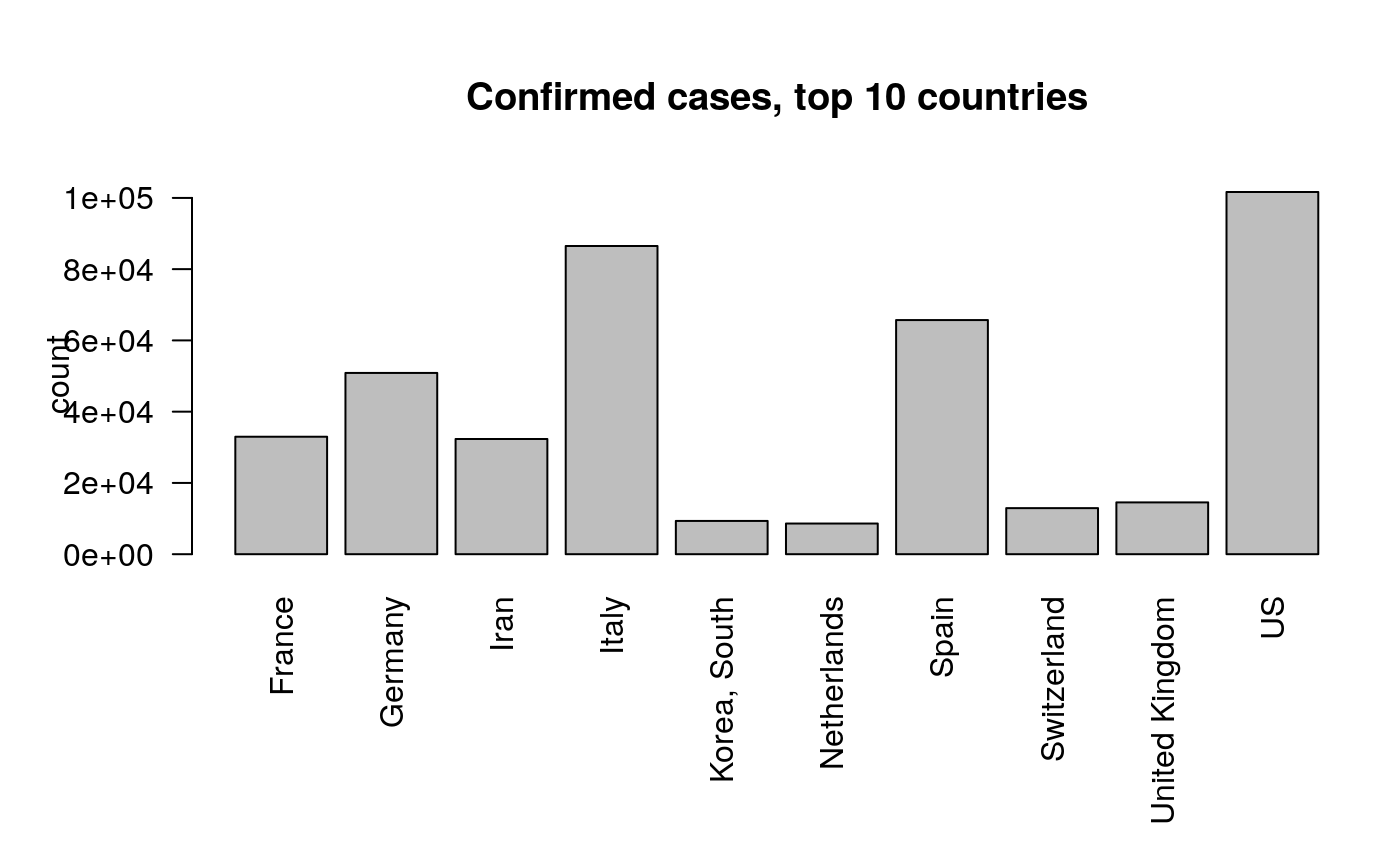
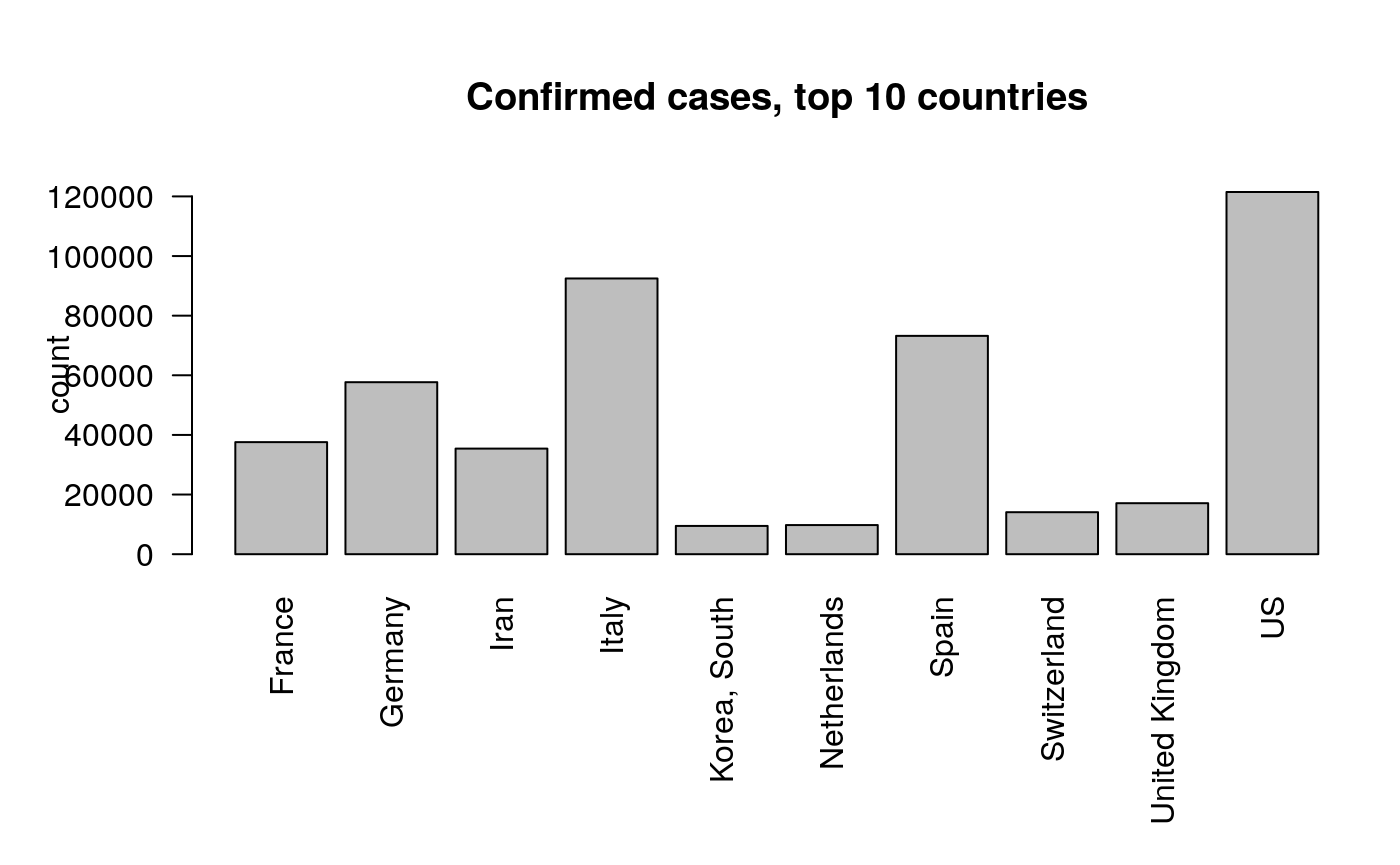
Deploying to gh-pages from  - 2a6ee91621d3e87bbb3a4b51f5cc62c51721f550 🚀

diff --git a/articles/sars2pack.html b/articles/sars2pack.html
@@ -31,7 +31,7 @@
       </button>
       <span class="navbar-brand">
         <a class="navbar-link" href="../index.html">sars2pack</a>
-        <span class="version label label-default" data-toggle="tooltip" data-placement="bottom" title="Released version">0.0.12</span>
+        <span class="version label label-default" data-toggle="tooltip" data-placement="bottom" title="Released version">0.0.13</span>
       </span>
     </div>
 
@@ -80,7 +80,7 @@
       <h1 data-toc-skip>Exploring the COVID-19 pandemic using sars2pack</h1>
                         <h4 class="author">Sean Davis <a href="mailto:seandavi@gmail.com" class="email">seandavi@gmail.com</a> and Vincent J. Carey, stvjc at channing.harvard.edu</h4>
             
-            <h4 class="date">March 28, 2020</h4>
+            <h4 class="date">March 29, 2020</h4>
       
       <small class="dont-index">Source: <a href="https://github.com/seandavi/sars2pack/blob/master/vignettes/sars2pack.Rmd"><code>vignettes/sars2pack.Rmd</code></a></small>
       <div class="hidden name"><code>sars2pack.Rmd</code></div>
@@ -157,7 +157,7 @@
 <span class="fu"><a href="https://rdrr.io/r/base/class.html">class</a></span>(<span class="no">jhu</span>)</pre></body></html></div>
 <pre><code>## [1] "s2p_long_df" "tbl_df"      "tbl"         "data.frame"</code></pre>
 <div class="sourceCode" id="cb4"><html><body><pre class="r"><span class="fu"><a href="https://rdrr.io/r/base/dim.html">dim</a></span>(<span class="no">jhu</span>)</pre></body></html></div>
-<pre><code>## [1] 32868     7</code></pre>
+<pre><code>## [1] 33902     7</code></pre>
 <p>Column names include:</p>
 <div class="sourceCode" id="cb6"><html><body><pre class="r"><span class="fu"><a href="https://rdrr.io/r/base/colnames.html">colnames</a></span>(<span class="no">jhu</span>)</pre></body></html></div>
 <pre><code>## [1] "ProvinceState" "CountryRegion" "Lat"           "Long"         
@@ -279,12 +279,12 @@
 <li><strong>How many records are in the dataset?</strong></li>
 </ul>
 <div class="sourceCode" id="cb45"><html><body><pre class="r"><span class="fu"><a href="https://rdrr.io/r/base/nrow.html">nrow</a></span>(<span class="no">jhu</span>)</pre></body></html></div>
-<pre><code>## [1] 32868</code></pre>
+<pre><code>## [1] 33902</code></pre>
 <ul>
 <li><strong>How many different countries are represented?</strong></li>
 </ul>
 <div class="sourceCode" id="cb47"><html><body><pre class="r"><span class="fu"><a href="https://rdrr.io/r/base/length.html">length</a></span>(<span class="fu"><a href="https://rdrr.io/r/base/unique.html">unique</a></span>(<span class="no">jhu</span>$<span class="no">CountryRegion</span>))</pre></body></html></div>
-<pre><code>## [1] 176</code></pre>
+<pre><code>## [1] 177</code></pre>
 <p>Most records have no listing for <code>ProvinceState</code> column. Let’s look at a few of those to get an idea of what is there when not empty:</p>
 <ul>
 <li><strong>What is in the <code>ProvinceState</code> column?</strong></li>
@@ -320,8 +320,8 @@
     <span class="kw pkg">dplyr</span><span class="kw ns">::</span><span class="fu"><a href="https://dplyr.tidyverse.org/reference/slice.html">slice</a></span>(<span class="fu"><a href="https://rdrr.io/r/base/which.min.html">which.max</a></span>(<span class="no">date</span>)) <span class="kw">%&gt;%</span>
     <span class="kw pkg">dplyr</span><span class="kw ns">::</span><span class="fu"><a href="https://dplyr.tidyverse.org/reference/arrange.html">arrange</a></span>(<span class="fu">desc</span>(<span class="no">count</span>))
 <span class="kw pkg">DT</span><span class="kw ns">::</span><span class="fu"><a href="https://rdrr.io/pkg/DT/man/datatable.html">datatable</a></span>(<span class="no">latest_jhu_data</span>, <span class="kw">rownames</span><span class="kw">=</span><span class="fl">FALSE</span>)</pre></body></html></div>
-<div id="htmlwidget-4399031d9ae0f8dbde4d" style="width:100%;height:auto;" class="datatables html-widget"></div>
-<script type="application/json" data-for="htmlwidget-4399031d9ae0f8dbde4d">{"x":{"filter":"none","data":[[null,null,null,null,null,null,null,null,null,null,null,null,null,null,null,null,null,null,null,null,null,null,null,null,null,null,null,null,null,null,null,null,null,null,null,null,null,null,null,null,null,null,null,null,null,null,null,null,null,null,null,null,null,null,null,null,null,null,null,null,null,null,null,null,null,null,null,null,null,null,null,null,null,null,null,null,null,null,null,null,null,null,null,null,null,null,null,null,null,null,null,null,null,null,null,null,null,null,null,null,null,null,null,null,null,null,null,null,null,null,null,null,null,null,null,null,null,null,null,null,null,null,null,null,null,null,null,null,null,null,null,null,null,null,null,null,null,null,null,null,null,null,null,null,null,null,null,null,null,null,null,null,null,null,null,null,null,null,null,null,null,null,null,null,null,null,null,null,null,null,null,null,null],["US","Italy","Spain","Germany","France","Iran","United Kingdom","Switzerland","Korea, South","Netherlands","Austria","Belgium","Turkey","Portugal","Norway","Brazil","Sweden","Israel","Czechia","Malaysia","Ireland","Denmark","Chile","Luxembourg","Ecuador","Japan","Poland","Pakistan","Romania","South Africa","Thailand","Saudi Arabia","Indonesia","Finland","Russia","Greece","Iceland","India","Philippines","Singapore","Diamond Princess","Panama","Peru","Slovenia","Argentina","Croatia","Mexico","Dominican Republic","Estonia","Qatar","Colombia","Egypt","Bahrain","Iraq","Serbia","Algeria","United Arab Emirates","Lebanon","New Zealand","Lithuania","Morocco","Armenia","Ukraine","Hungary","Bulgaria","Latvia","Slovakia","Andorra","Taiwan*","Costa Rica","Uruguay","Bosnia and Herzegovina","Jordan","Tunisia","Kuwait","San Marino","North Macedonia","Moldova","Albania","Burkina Faso","Azerbaijan","Vietnam","Cyprus","Kazakhstan","Malta","Ghana","Oman","Senegal","Brunei","Afghanistan","Venezuela","Sri Lanka","Cote d'Ivoire","Cambodia","Belarus","Mauritius","Cameroon","West Bank and Gaza","Uzbekistan","Kosovo","Georgia","Montenegro","Cuba","Nigeria","Honduras","Trinidad and Tobago","Bolivia","Kyrgyzstan","Liechtenstein","Rwanda","Paraguay","Congo (Kinshasa)","Bangladesh","Monaco","Kenya","Guatemala","Jamaica","Madagascar","Togo","Barbados","Uganda","Zambia","Ethiopia","Maldives","El Salvador","Tanzania","Djibouti","Equatorial Guinea","Dominica","Mali","Mongolia","Bahamas","Niger","Eswatini","Burma","Guinea","Haiti","Namibia","Suriname","Antigua and Barbuda","Gabon","Grenada","Mozambique","Seychelles","Benin","Eritrea","Laos","Cabo Verde","Fiji","Guyana","Syria","Zimbabwe","Angola","Congo (Brazzaville)","Holy See","Nepal","Bhutan","Central African Republic","Chad","Gambia","Liberia","Mauritania","Saint Lucia","Somalia","Sudan","Belize","Guinea-Bissau","Nicaragua","Saint Kitts and Nevis","Libya","Papua New Guinea","Saint Vincent and the Grenadines","Timor-Leste"],[37.0902,43,40,51,46.2276,32,55.3781,46.8182,36,52.1326,47.5162,50.8333,38.9637,39.3999,60.472,-14.235,63,31,49.8175,2.5,53.1424,56.2639,-35.6751,49.8153,-1.8312,36,51.9194,30.3753,45.9432,-30.5595,15,24,-0.7893,64,60,39.0742,64.9631,21,13,1.2833,0,8.538,-9.19,46.1512,-38.4161,45.1,23.6345,18.7357,58.5953,25.3548,4.5709,26,26.0275,33,44.0165,28.0339,24,33.8547,-40.9006,55.1694,31.7917,40.0691,48.3794,47.1625,42.7339,56.8796,48.669,42.5063,23.7,9.7489,-32.5228,43.9159,31.24,34,29.5,43.9424,41.6086,47.4116,41.1533,12.2383,40.1431,16,35.1264,48.0196,35.9375,7.9465,21,14.4974,4.5353,33,6.4238,7,7.54,11.55,53.7098,-20.2,3.848,31.9522,41.3775,42.602636,42.3154,42.5,22,9.082,15.2,10.6918,-16.2902,41.2044,47.14,-1.9403,-23.4425,-4.0383,23.685,43.7333,-0.0236,15.7835,18.1096,-18.7669,8.6195,13.1939,1,-15.4167,9.145,3.2028,13.7942,-6.369,11.8251,1.5,15.415,17.570692,46.8625,25.0343,17.6078,-26.5225,21.9162,9.9456,18.9712,-22.9576,3.9193,17.0608,-0.8037,12.1165,-18.665695,-4.6796,9.3077,15.1794,19.85627,16.5388,-17.7134,5,34.802075,-20,-11.2027,-4.0383,41.9029,28.1667,27.5142,6.6111,15.4542,13.4432,6.4281,21.0079,13.9094,5.1521,12.8628,13.1939,11.8037,12.8654,17.357822,26.3351,-6.315,12.9843,-8.874217],[-95.7129,12,-4,9,2.2137,53,-3.436,8.2275,128,5.2913,14.5501,4,35.2433,-8.2245,8.4689,-51.9253,16,35,15.473,112.5,-7.6921,9.5018,-71.543,6.1296,-78.1834,138,19.1451,69.3451,24.9668,22.9375,101,45,113.9213,26,90,21.8243,-19.0208,78,122,103.8333,0,-80.7821,-75.0152,14.9955,-63.6167,15.2,-102.5528,-70.1627,25.0136,51.1839,-74.2973,30,50.55,44,21.0059,1.6596,54,35.8623,174.886,23.8813,-7.0926,45.0382,31.1656,19.5033,25.4858,24.6032,19.699,1.5218,121,-83.7534,-55.7658,17.6791,36.51,9,47.75,12.4578,21.7453,28.3699,20.1683,-1.5616,47.5769,108,33.4299,66.9237,14.3754,-1.0232,57,-14.4524,114.7277,65,-66.5897,81,-5.5471,104.9167,27.9534,57.5,11.5021,35.2332,64.5853,20.902977,43.3569,19.3,-80,8.6753,-86.2419,-61.2225,-63.5887,74.7661,9.55,29.8739,-58.4438,21.7587,90.3563,7.4167,37.9062,-90.2308,-77.2975,46.8691,0.8248,-59.5432,32,28.2833,40.4897,73.2207,-88.8965,34.8888,42.5903,10,-61.371,-3.996166,103.8467,-77.3963,8.0817,31.4659,95.956,-9.6966,-72.2852,18.4904,-56.0278,-61.7964,11.6094,-61.679,35.529562,55.492,2.3158,39.7823,102.495496,-23.0418,178.065,-58.75,38.996815,30,17.8739,21.7587,12.4534,84.25,90.4336,20.9394,18.7322,-15.3101,-9.4295,10.9408,-60.9789,46.1996,30.2176,-59.5432,-15.1804,-85.2072,-62.782998,17.228331,143.9555,-61.2872,125.727539],["2020-03-27","2020-03-27","2020-03-27","2020-03-27","2020-03-27","2020-03-27","2020-03-27","2020-03-27","2020-03-27","2020-03-27","2020-03-27","2020-03-27","2020-03-27","2020-03-27","2020-03-27","2020-03-27","2020-03-27","2020-03-27","2020-03-27","2020-03-27","2020-03-27","2020-03-27","2020-03-27","2020-03-27","2020-03-27","2020-03-27","2020-03-27","2020-03-27","2020-03-27","2020-03-27","2020-03-27","2020-03-27","2020-03-27","2020-03-27","2020-03-27","2020-03-27","2020-03-27","2020-03-27","2020-03-27","2020-03-27","2020-03-27","2020-03-27","2020-03-27","2020-03-27","2020-03-27","2020-03-27","2020-03-27","2020-03-27","2020-03-27","2020-03-27","2020-03-27","2020-03-27","2020-03-27","2020-03-27","2020-03-27","2020-03-27","2020-03-27","2020-03-27","2020-03-27","2020-03-27","2020-03-27","2020-03-27","2020-03-27","2020-03-27","2020-03-27","2020-03-27","2020-03-27","2020-03-27","2020-03-27","2020-03-27","2020-03-27","2020-03-27","2020-03-27","2020-03-27","2020-03-27","2020-03-27","2020-03-27","2020-03-27","2020-03-27","2020-03-27","2020-03-27","2020-03-27","2020-03-27","2020-03-27","2020-03-27","2020-03-27","2020-03-27","2020-03-27","2020-03-27","2020-03-27","2020-03-27","2020-03-27","2020-03-27","2020-03-27","2020-03-27","2020-03-27","2020-03-27","2020-03-27","2020-03-27","2020-03-27","2020-03-27","2020-03-27","2020-03-27","2020-03-27","2020-03-27","2020-03-27","2020-03-27","2020-03-27","2020-03-27","2020-03-27","2020-03-27","2020-03-27","2020-03-27","2020-03-27","2020-03-27","2020-03-27","2020-03-27","2020-03-27","2020-03-27","2020-03-27","2020-03-27","2020-03-27","2020-03-27","2020-03-27","2020-03-27","2020-03-27","2020-03-27","2020-03-27","2020-03-27","2020-03-27","2020-03-27","2020-03-27","2020-03-27","2020-03-27","2020-03-27","2020-03-27","2020-03-27","2020-03-27","2020-03-27","2020-03-27","2020-03-27","2020-03-27","2020-03-27","2020-03-27","2020-03-27","2020-03-27","2020-03-27","2020-03-27","2020-03-27","2020-03-27","2020-03-27","2020-03-27","2020-03-27","2020-03-27","2020-03-27","2020-03-27","2020-03-27","2020-03-27","2020-03-27","2020-03-27","2020-03-27","2020-03-27","2020-03-27","2020-03-27","2020-03-27","2020-03-27","2020-03-27","2020-03-27","2020-03-27","2020-03-27","2020-03-27","2020-03-27","2020-03-27"],[101657,86498,65719,50871,32964,32332,14543,12928,9332,8603,7657,7284,5698,4268,3755,3417,3069,3035,2279,2161,2121,2046,1610,1605,1595,1468,1389,1373,1292,1170,1136,1104,1046,1041,1036,966,890,887,803,732,712,674,635,632,589,586,585,581,575,562,539,536,466,458,457,409,405,391,368,358,345,329,310,300,293,280,269,267,267,263,238,237,235,227,225,223,219,199,186,180,165,163,162,150,139,137,131,119,115,110,107,106,101,99,94,94,91,91,88,86,83,82,80,70,68,66,61,58,56,54,52,51,48,42,31,28,26,26,25,24,23,22,16,16,13,13,12,12,11,11,11,10,10,9,8,8,8,8,8,7,7,7,7,7,6,6,6,5,5,5,5,5,4,4,4,4,3,3,3,3,3,3,3,3,3,2,2,2,2,1,1,1,1],["confirmed","confirmed","confirmed","confirmed","confirmed","confirmed","confirmed","confirmed","confirmed","confirmed","confirmed","confirmed","confirmed","confirmed","confirmed","confirmed","confirmed","confirmed","confirmed","confirmed","confirmed","confirmed","confirmed","confirmed","confirmed","confirmed","confirmed","confirmed","confirmed","confirmed","confirmed","confirmed","confirmed","confirmed","confirmed","confirmed","confirmed","confirmed","confirmed","confirmed","confirmed","confirmed","confirmed","confirmed","confirmed","confirmed","confirmed","confirmed","confirmed","confirmed","confirmed","confirmed","confirmed","confirmed","confirmed","confirmed","confirmed","confirmed","confirmed","confirmed","confirmed","confirmed","confirmed","confirmed","confirmed","confirmed","confirmed","confirmed","confirmed","confirmed","confirmed","confirmed","confirmed","confirmed","confirmed","confirmed","confirmed","confirmed","confirmed","confirmed","confirmed","confirmed","confirmed","confirmed","confirmed","confirmed","confirmed","confirmed","confirmed","confirmed","confirmed","confirmed","confirmed","confirmed","confirmed","confirmed","confirmed","confirmed","confirmed","confirmed","confirmed","confirmed","confirmed","confirmed","confirmed","confirmed","confirmed","confirmed","confirmed","confirmed","confirmed","confirmed","confirmed","confirmed","confirmed","confirmed","confirmed","confirmed","confirmed","confirmed","confirmed","confirmed","confirmed","confirmed","confirmed","confirmed","confirmed","confirmed","confirmed","confirmed","confirmed","confirmed","confirmed","confirmed","confirmed","confirmed","confirmed","confirmed","confirmed","confirmed","confirmed","confirmed","confirmed","confirmed","confirmed","confirmed","confirmed","confirmed","confirmed","confirmed","confirmed","confirmed","confirmed","confirmed","confirmed","confirmed","confirmed","confirmed","confirmed","confirmed","confirmed","confirmed","confirmed","confirmed","confirmed","confirmed","confirmed","confirmed","confirmed","confirmed","confirmed","confirmed","confirmed"]],"container":"<table class=\"display\">\n  <thead>\n    <tr>\n      <th>ProvinceState<\/th>\n      <th>CountryRegion<\/th>\n      <th>Lat<\/th>\n      <th>Long<\/th>\n      <th>date<\/th>\n      <th>count<\/th>\n      <th>subset<\/th>\n    <\/tr>\n  <\/thead>\n<\/table>","options":{"columnDefs":[{"className":"dt-right","targets":[2,3,5]}],"order":[],"autoWidth":false,"orderClasses":false}},"evals":[],"jsHooks":[]}</script><p><strong>Note</strong>: I included a little <code>is.na</code> in the filtering above to remove records where country data are split out over subparts. We revisit this below.</p>
+<div id="htmlwidget-121d17791b3955b23e23" style="width:100%;height:auto;" class="datatables html-widget"></div>
+<script type="application/json" data-for="htmlwidget-121d17791b3955b23e23">{"x":{"filter":"none","data":[[null,null,null,null,null,null,null,null,null,null,null,null,null,null,null,null,null,null,null,null,null,null,null,null,null,null,null,null,null,null,null,null,null,null,null,null,null,null,null,null,null,null,null,null,null,null,null,null,null,null,null,null,null,null,null,null,null,null,null,null,null,null,null,null,null,null,null,null,null,null,null,null,null,null,null,null,null,null,null,null,null,null,null,null,null,null,null,null,null,null,null,null,null,null,null,null,null,null,null,null,null,null,null,null,null,null,null,null,null,null,null,null,null,null,null,null,null,null,null,null,null,null,null,null,null,null,null,null,null,null,null,null,null,null,null,null,null,null,null,null,null,null,null,null,null,null,null,null,null,null,null,null,null,null,null,null,null,null,null,null,null,null,null,null,null,null,null,null,null,null,null,null,null,null],["US","Italy","Spain","Germany","France","Iran","United Kingdom","Switzerland","Netherlands","Korea, South","Belgium","Austria","Turkey","Portugal","Norway","Brazil","Israel","Sweden","Czechia","Ireland","Malaysia","Denmark","Chile","Luxembourg","Ecuador","Japan","Poland","Pakistan","Romania","Russia","Thailand","Saudi Arabia","South Africa","Finland","Indonesia","Philippines","Greece","India","Iceland","Singapore","Panama","Dominican Republic","Mexico","Diamond Princess","Argentina","Slovenia","Peru","Serbia","Croatia","Estonia","Colombia","Qatar","Egypt","Iraq","Bahrain","United Arab Emirates","Algeria","New Zealand","Lebanon","Armenia","Morocco","Lithuania","Ukraine","Hungary","Bulgaria","Andorra","Latvia","Costa Rica","Slovakia","Taiwan*","Tunisia","Uruguay","Bosnia and Herzegovina","Jordan","North Macedonia","Kuwait","Moldova","Kazakhstan","San Marino","Burkina Faso","Albania","Azerbaijan","Cyprus","Vietnam","Oman","Malta","Ghana","Senegal","Brunei","Cuba","Venezuela","Sri Lanka","Afghanistan","Uzbekistan","Mauritius","Cote d'Ivoire","Cambodia","West Bank and Gaza","Honduras","Belarus","Cameroon","Kosovo","Georgia","Nigeria","Montenegro","Bolivia","Trinidad and Tobago","Congo (Kinshasa)","Rwanda","Kyrgyzstan","Liechtenstein","Paraguay","Bangladesh","Monaco","Kenya","Guatemala","Jamaica","Uganda","Zambia","Barbados","Madagascar","Togo","El Salvador","Mali","Ethiopia","Maldives","Djibouti","Tanzania","Equatorial Guinea","Mongolia","Dominica","Bahamas","Niger","Eswatini","Burma","Guinea","Guyana","Haiti","Laos","Mozambique","Namibia","Seychelles","Suriname","Antigua and Barbuda","Gabon","Grenada","Zimbabwe","Benin","Eritrea","Holy See","Angola","Cabo Verde","Fiji","Mauritania","Nepal","Sudan","Syria","Congo (Brazzaville)","Nicaragua","Bhutan","Central African Republic","Chad","Gambia","Liberia","Libya","Saint Lucia","Somalia","Belize","Guinea-Bissau","MS Zaandam","Saint Kitts and Nevis","Papua New Guinea","Saint Vincent and the Grenadines","Timor-Leste"],[37.0902,43,40,51,46.2276,32,55.3781,46.8182,52.1326,36,50.8333,47.5162,38.9637,39.3999,60.472,-14.235,31,63,49.8175,53.1424,2.5,56.2639,-35.6751,49.8153,-1.8312,36,51.9194,30.3753,45.9432,60,15,24,-30.5595,64,-0.7893,13,39.0742,21,64.9631,1.2833,8.538,18.7357,23.6345,0,-38.4161,46.1512,-9.19,44.0165,45.1,58.5953,4.5709,25.3548,26,33,26.0275,24,28.0339,-40.9006,33.8547,40.0691,31.7917,55.1694,48.3794,47.1625,42.7339,42.5063,56.8796,9.7489,48.669,23.7,34,-32.5228,43.9159,31.24,41.6086,29.5,47.4116,48.0196,43.9424,12.2383,41.1533,40.1431,35.1264,16,21,35.9375,7.9465,14.4974,4.5353,22,6.4238,7,33,41.3775,-20.2,7.54,11.55,31.9522,15.2,53.7098,3.848,42.602636,42.3154,9.082,42.5,-16.2902,10.6918,-4.0383,-1.9403,41.2044,47.14,-23.4425,23.685,43.7333,-0.0236,15.7835,18.1096,1,-15.4167,13.1939,-18.7669,8.6195,13.7942,17.570692,9.145,3.2028,11.8251,-6.369,1.5,46.8625,15.415,25.0343,17.6078,-26.5225,21.9162,9.9456,5,18.9712,19.85627,-18.665695,-22.9576,-4.6796,3.9193,17.0608,-0.8037,12.1165,-20,9.3077,15.1794,41.9029,-11.2027,16.5388,-17.7134,21.0079,28.1667,12.8628,34.802075,-4.0383,12.8654,27.5142,6.6111,15.4542,13.4432,6.4281,26.3351,13.9094,5.1521,13.1939,11.8037,0,17.357822,-6.315,12.9843,-8.874217],[-95.7129,12,-4,9,2.2137,53,-3.436,8.2275,5.2913,128,4,14.5501,35.2433,-8.2245,8.4689,-51.9253,35,16,15.473,-7.6921,112.5,9.5018,-71.543,6.1296,-78.1834,138,19.1451,69.3451,24.9668,90,101,45,22.9375,26,113.9213,122,21.8243,78,-19.0208,103.8333,-80.7821,-70.1627,-102.5528,0,-63.6167,14.9955,-75.0152,21.0059,15.2,25.0136,-74.2973,51.1839,30,44,50.55,54,1.6596,174.886,35.8623,45.0382,-7.0926,23.8813,31.1656,19.5033,25.4858,1.5218,24.6032,-83.7534,19.699,121,9,-55.7658,17.6791,36.51,21.7453,47.75,28.3699,66.9237,12.4578,-1.5616,20.1683,47.5769,33.4299,108,57,14.3754,-1.0232,-14.4524,114.7277,-80,-66.5897,81,65,64.5853,57.5,-5.5471,104.9167,35.2332,-86.2419,27.9534,11.5021,20.902977,43.3569,8.6753,19.3,-63.5887,-61.2225,21.7587,29.8739,74.7661,9.55,-58.4438,90.3563,7.4167,37.9062,-90.2308,-77.2975,32,28.2833,-59.5432,46.8691,0.8248,-88.8965,-3.996166,40.4897,73.2207,42.5903,34.8888,10,103.8467,-61.371,-77.3963,8.0817,31.4659,95.956,-9.6966,-58.75,-72.2852,102.495496,35.529562,18.4904,55.492,-56.0278,-61.7964,11.6094,-61.679,30,2.3158,39.7823,12.4534,17.8739,-23.0418,178.065,10.9408,84.25,30.2176,38.996815,21.7587,-85.2072,90.4336,20.9394,18.7322,-15.3101,-9.4295,17.228331,-60.9789,46.1996,-59.5432,-15.1804,0,-62.782998,143.9555,-61.2872,125.727539],["2020-03-28","2020-03-28","2020-03-28","2020-03-28","2020-03-28","2020-03-28","2020-03-28","2020-03-28","2020-03-28","2020-03-28","2020-03-28","2020-03-28","2020-03-28","2020-03-28","2020-03-28","2020-03-28","2020-03-28","2020-03-28","2020-03-28","2020-03-28","2020-03-28","2020-03-28","2020-03-28","2020-03-28","2020-03-28","2020-03-28","2020-03-28","2020-03-28","2020-03-28","2020-03-28","2020-03-28","2020-03-28","2020-03-28","2020-03-28","2020-03-28","2020-03-28","2020-03-28","2020-03-28","2020-03-28","2020-03-28","2020-03-28","2020-03-28","2020-03-28","2020-03-28","2020-03-28","2020-03-28","2020-03-28","2020-03-28","2020-03-28","2020-03-28","2020-03-28","2020-03-28","2020-03-28","2020-03-28","2020-03-28","2020-03-28","2020-03-28","2020-03-28","2020-03-28","2020-03-28","2020-03-28","2020-03-28","2020-03-28","2020-03-28","2020-03-28","2020-03-28","2020-03-28","2020-03-28","2020-03-28","2020-03-28","2020-03-28","2020-03-28","2020-03-28","2020-03-28","2020-03-28","2020-03-28","2020-03-28","2020-03-28","2020-03-28","2020-03-28","2020-03-28","2020-03-28","2020-03-28","2020-03-28","2020-03-28","2020-03-28","2020-03-28","2020-03-28","2020-03-28","2020-03-28","2020-03-28","2020-03-28","2020-03-28","2020-03-28","2020-03-28","2020-03-28","2020-03-28","2020-03-28","2020-03-28","2020-03-28","2020-03-28","2020-03-28","2020-03-28","2020-03-28","2020-03-28","2020-03-28","2020-03-28","2020-03-28","2020-03-28","2020-03-28","2020-03-28","2020-03-28","2020-03-28","2020-03-28","2020-03-28","2020-03-28","2020-03-28","2020-03-28","2020-03-28","2020-03-28","2020-03-28","2020-03-28","2020-03-28","2020-03-28","2020-03-28","2020-03-28","2020-03-28","2020-03-28","2020-03-28","2020-03-28","2020-03-28","2020-03-28","2020-03-28","2020-03-28","2020-03-28","2020-03-28","2020-03-28","2020-03-28","2020-03-28","2020-03-28","2020-03-28","2020-03-28","2020-03-28","2020-03-28","2020-03-28","2020-03-28","2020-03-28","2020-03-28","2020-03-28","2020-03-28","2020-03-28","2020-03-28","2020-03-28","2020-03-28","2020-03-28","2020-03-28","2020-03-28","2020-03-28","2020-03-28","2020-03-28","2020-03-28","2020-03-28","2020-03-28","2020-03-28","2020-03-28","2020-03-28","2020-03-28","2020-03-28","2020-03-28","2020-03-28","2020-03-28","2020-03-28","2020-03-28","2020-03-28"],[121478,92472,73235,57695,37575,35408,17089,14076,9762,9478,9134,8271,7402,5170,4015,3904,3619,3447,2631,2415,2320,2201,1909,1831,1823,1693,1638,1495,1452,1264,1245,1203,1187,1167,1155,1075,1061,987,963,802,786,719,717,712,690,684,671,659,657,645,608,590,576,506,476,468,454,451,412,407,402,394,356,343,331,308,305,295,292,283,278,274,258,246,241,235,231,228,224,207,197,182,179,174,152,149,141,130,120,119,119,113,110,104,102,101,99,98,95,94,91,91,90,89,84,74,74,65,60,58,56,56,48,42,38,34,30,30,28,26,26,25,19,18,16,16,14,14,12,12,11,10,10,9,8,8,8,8,8,8,8,8,8,7,7,7,7,6,6,6,5,5,5,5,5,5,5,4,4,3,3,3,3,3,3,3,3,2,2,2,2,1,1,1],["confirmed","confirmed","confirmed","confirmed","confirmed","confirmed","confirmed","confirmed","confirmed","confirmed","confirmed","confirmed","confirmed","confirmed","confirmed","confirmed","confirmed","confirmed","confirmed","confirmed","confirmed","confirmed","confirmed","confirmed","confirmed","confirmed","confirmed","confirmed","confirmed","confirmed","confirmed","confirmed","confirmed","confirmed","confirmed","confirmed","confirmed","confirmed","confirmed","confirmed","confirmed","confirmed","confirmed","confirmed","confirmed","confirmed","confirmed","confirmed","confirmed","confirmed","confirmed","confirmed","confirmed","confirmed","confirmed","confirmed","confirmed","confirmed","confirmed","confirmed","confirmed","confirmed","confirmed","confirmed","confirmed","confirmed","confirmed","confirmed","confirmed","confirmed","confirmed","confirmed","confirmed","confirmed","confirmed","confirmed","confirmed","confirmed","confirmed","confirmed","confirmed","confirmed","confirmed","confirmed","confirmed","confirmed","confirmed","confirmed","confirmed","confirmed","confirmed","confirmed","confirmed","confirmed","confirmed","confirmed","confirmed","confirmed","confirmed","confirmed","confirmed","confirmed","confirmed","confirmed","confirmed","confirmed","confirmed","confirmed","confirmed","confirmed","confirmed","confirmed","confirmed","confirmed","confirmed","confirmed","confirmed","confirmed","confirmed","confirmed","confirmed","confirmed","confirmed","confirmed","confirmed","confirmed","confirmed","confirmed","confirmed","confirmed","confirmed","confirmed","confirmed","confirmed","confirmed","confirmed","confirmed","confirmed","confirmed","confirmed","confirmed","confirmed","confirmed","confirmed","confirmed","confirmed","confirmed","confirmed","confirmed","confirmed","confirmed","confirmed","confirmed","confirmed","confirmed","confirmed","confirmed","confirmed","confirmed","confirmed","confirmed","confirmed","confirmed","confirmed","confirmed","confirmed","confirmed","confirmed","confirmed","confirmed","confirmed","confirmed","confirmed","confirmed"]],"container":"<table class=\"display\">\n  <thead>\n    <tr>\n      <th>ProvinceState<\/th>\n      <th>CountryRegion<\/th>\n      <th>Lat<\/th>\n      <th>Long<\/th>\n      <th>date<\/th>\n      <th>count<\/th>\n      <th>subset<\/th>\n    <\/tr>\n  <\/thead>\n<\/table>","options":{"columnDefs":[{"className":"dt-right","targets":[2,3,5]}],"order":[],"autoWidth":false,"orderClasses":false}},"evals":[],"jsHooks":[]}</script><p><strong>Note</strong>: I included a little <code>is.na</code> in the filtering above to remove records where country data are split out over subparts. We revisit this below.</p>
 <p>The data here could be usefully displayed as a graph as well.</p>
 <div class="sourceCode" id="cb52"><html><body><pre class="r"><span class="fu"><a href="https://rdrr.io/r/graphics/par.html">par</a></span>(<span class="kw">las</span><span class="kw">=</span><span class="fl">2</span>, <span class="kw">mar</span><span class="kw">=</span><span class="fu"><a href="https://rdrr.io/r/base/c.html">c</a></span>(<span class="fl">8</span>,<span class="fl">5</span>,<span class="fl">5</span>,<span class="fl">1</span>))
 <span class="fu"><a href="https://rdrr.io/r/graphics/barplot.html">barplot</a></span>(<span class="no">count</span> ~ <span class="no">CountryRegion</span>, <span class="kw">xlab</span> <span class="kw">=</span> <span class="st">''</span>,

diff --git a/news/index.html b/news/index.html
@@ -71,7 +71,7 @@
       </button>
       <span class="navbar-brand">
         <a class="navbar-link" href="../index.html">sars2pack</a>
-        <span class="version label label-default" data-toggle="tooltip" data-placement="bottom" title="Released version">0.0.12</span>
+        <span class="version label label-default" data-toggle="tooltip" data-placement="bottom" title="Released version">0.0.13</span>
       </span>
     </div>
 
@@ -117,12 +117,25 @@
       <small>Source: <a href='https://github.com/seandavi/sars2pack/blob/master/NEWS.md'><code>NEWS.md</code></a></small>
     </div>
 
-    <div id="sars2pack-0-0-12" class="section level1">
-<h1 class="page-header" data-toc-text="0.0.12">
-<a href="#sars2pack-0-0-12" class="anchor"></a>sars2pack 0.0.12</h1>
+    <div id="sars2pack-0-0-13" class="section level1">
+<h1 class="page-header" data-toc-text="0.0.13">
+<a href="#sars2pack-0-0-13" class="anchor"></a>sars2pack 0.0.13</h1>
 <div id="major-changes" class="section level2">
 <h2 class="hasAnchor">
 <a href="#major-changes" class="anchor"></a>Major changes</h2>
+<ul>
+<li>
+<code>enhanced_jhu_data</code> now returns a tidy tbl_df rather than a list of wide data.frames</li>
+<li>new function <code>jhu_data_to_excel</code> that writes out “enriched” dataset to excel for sharing with non data science types. Replaces functionality of old <code>enhanced_jhu_data</code>.</li>
+</ul>
+</div>
+</div>
+    <div id="sars2pack-0-0-12" class="section level1">
+<h1 class="page-header" data-toc-text="0.0.12">
+<a href="#sars2pack-0-0-12" class="anchor"></a>sars2pack 0.0.12</h1>
+<div id="major-changes-1" class="section level2">
+<h2 class="hasAnchor">
+<a href="#major-changes-1" class="anchor"></a>Major changes</h2>
 <ul>
 <li>Vignette updates to include data exploration and time series visualization</li>
 </ul>
@@ -131,9 +144,9 @@
     <div id="sars2pack-0-0-11" class="section level1">
 <h1 class="page-header" data-toc-text="0.0.11">
 <a href="#sars2pack-0-0-11" class="anchor"></a>sars2pack 0.0.11</h1>
-<div id="major-changes-1" class="section level2">
+<div id="major-changes-2" class="section level2">
 <h2 class="hasAnchor">
-<a href="#major-changes-1" class="anchor"></a>Major changes</h2>
+<a href="#major-changes-2" class="anchor"></a>Major changes</h2>
 <ul>
 <li>Add NYTimes state and county data</li>
 <li>Support for USAFacts state and county data</li>

diff --git a/reference/nytimes_data.html b/reference/nytimes_data.html
@@ -74,7 +74,7 @@ earlier entries in the data when they receive new information." />
       </button>
       <span class="navbar-brand">
         <a class="navbar-link" href="../index.html">sars2pack</a>
-        <span class="version label label-default" data-toggle="tooltip" data-placement="bottom" title="Released version">0.0.12</span>
+        <span class="version label label-default" data-toggle="tooltip" data-placement="bottom" title="Released version">0.0.13</span>
       </span>
     </div>
 

diff --git a/reference/dot-remove_df_columns.html b/reference/dot-remove_df_columns.html
@@ -73,7 +73,7 @@ data.frame columns, so simply remove them as needed." />
       </button>
       <span class="navbar-brand">
         <a class="navbar-link" href="../index.html">sars2pack</a>
-        <span class="version label label-default" data-toggle="tooltip" data-placement="bottom" title="Released version">0.0.12</span>
+        <span class="version label label-default" data-toggle="tooltip" data-placement="bottom" title="Released version">0.0.13</span>
       </span>
     </div>
 

diff --git a/reference/enriched_jhu_data.html b/reference/enriched_jhu_data.html
@@ -75,7 +75,7 @@ as a &quot;wide-format&quot; tabular dataset." />
       </button>
       <span class="navbar-brand">
         <a class="navbar-link" href="../index.html">sars2pack</a>
-        <span class="version label label-default" data-toggle="tooltip" data-placement="bottom" title="Released version">0.0.12</span>
+        <span class="version label label-default" data-toggle="tooltip" data-placement="bottom" title="Released version">0.0.13</span>
       </span>
     </div>
 

diff --git a/reference/dot-munge_data_from_jhu.html b/reference/dot-munge_data_from_jhu.html
@@ -73,7 +73,7 @@ deaths, recovered--and munges." />
       </button>
       <span class="navbar-brand">
         <a class="navbar-link" href="../index.html">sars2pack</a>
-        <span class="version label label-default" data-toggle="tooltip" data-placement="bottom" title="Released version">0.0.12</span>
+        <span class="version label label-default" data-toggle="tooltip" data-placement="bottom" title="Released version">0.0.13</span>
       </span>
     </div>
 

diff --git a/404.html b/404.html
@@ -71,7 +71,7 @@
       </button>
       <span class="navbar-brand">
         <a class="navbar-link" href="https://seandavi.github.io/sars2pack/index.html">sars2pack</a>
-        <span class="version label label-default" data-toggle="tooltip" data-placement="bottom" title="Released version">0.0.12</span>
+        <span class="version label label-default" data-toggle="tooltip" data-placement="bottom" title="Released version">0.0.13</span>
       </span>
     </div>
 

diff --git a/reference/country_metadata.html b/reference/country_metadata.html
@@ -74,7 +74,7 @@ to get country metadata." />
       </button>
       <span class="navbar-brand">
         <a class="navbar-link" href="../index.html">sars2pack</a>
-        <span class="version label label-default" data-toggle="tooltip" data-placement="bottom" title="Released version">0.0.12</span>
+        <span class="version label label-default" data-toggle="tooltip" data-placement="bottom" title="Released version">0.0.13</span>
       </span>
     </div>
 

diff --git a/reference/jhu_data.html b/reference/jhu_data.html
@@ -77,7 +77,7 @@ Lab (JHU APL)." />
       </button>
       <span class="navbar-brand">
         <a class="navbar-link" href="../index.html">sars2pack</a>
-        <span class="version label label-default" data-toggle="tooltip" data-placement="bottom" title="Released version">0.0.12</span>
+        <span class="version label label-default" data-toggle="tooltip" data-placement="bottom" title="Released version">0.0.13</span>
       </span>
     </div>
 

diff --git a/reference/usa_facts_data.html b/reference/usa_facts_data.html
@@ -73,7 +73,7 @@ data included." />
       </button>
       <span class="navbar-brand">
         <a class="navbar-link" href="../index.html">sars2pack</a>
-        <span class="version label label-default" data-toggle="tooltip" data-placement="bottom" title="Released version">0.0.12</span>
+        <span class="version label label-default" data-toggle="tooltip" data-placement="bottom" title="Released version">0.0.13</span>
       </span>
     </div>
 

diff --git a/articles/index.html b/articles/index.html
@@ -71,7 +71,7 @@
       </button>
       <span class="navbar-brand">
         <a class="navbar-link" href="../index.html">sars2pack</a>
-        <span class="version label label-default" data-toggle="tooltip" data-placement="bottom" title="Released version">0.0.12</span>
+        <span class="version label label-default" data-toggle="tooltip" data-placement="bottom" title="Released version">0.0.13</span>
       </span>
     </div>
 

diff --git a/reference/demo_simulation.html b/reference/demo_simulation.html
@@ -72,7 +72,7 @@
       </button>
       <span class="navbar-brand">
         <a class="navbar-link" href="../index.html">sars2pack</a>
-        <span class="version label label-default" data-toggle="tooltip" data-placement="bottom" title="Released version">0.0.12</span>
+        <span class="version label label-default" data-toggle="tooltip" data-placement="bottom" title="Released version">0.0.13</span>
       </span>
     </div>
 
